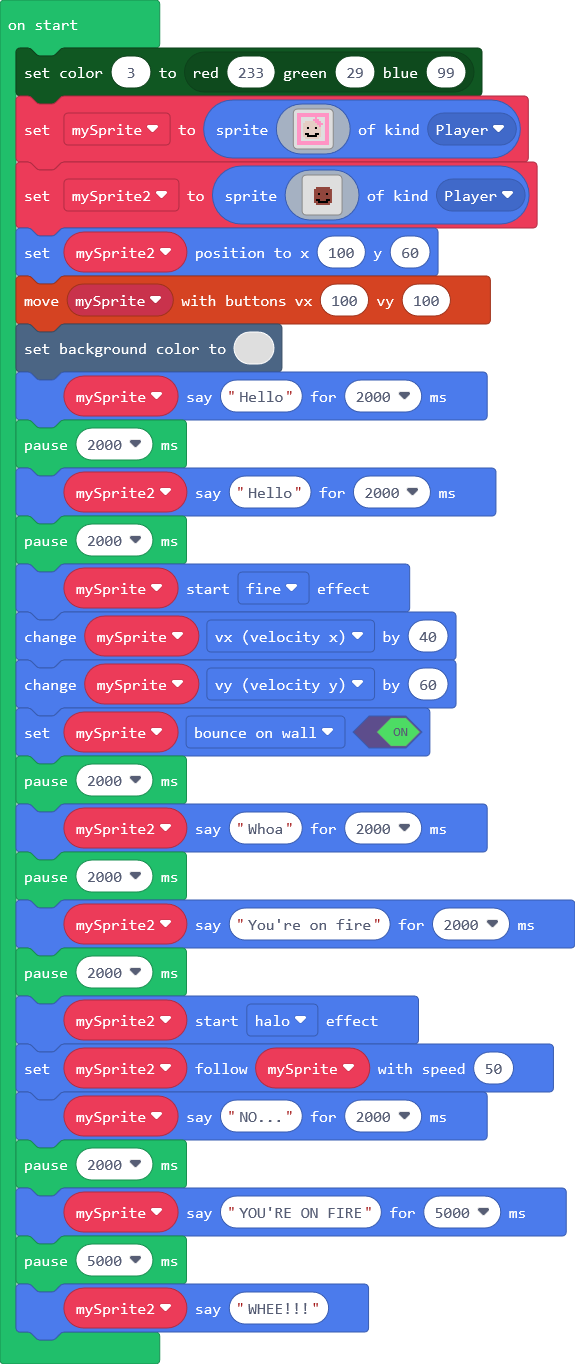
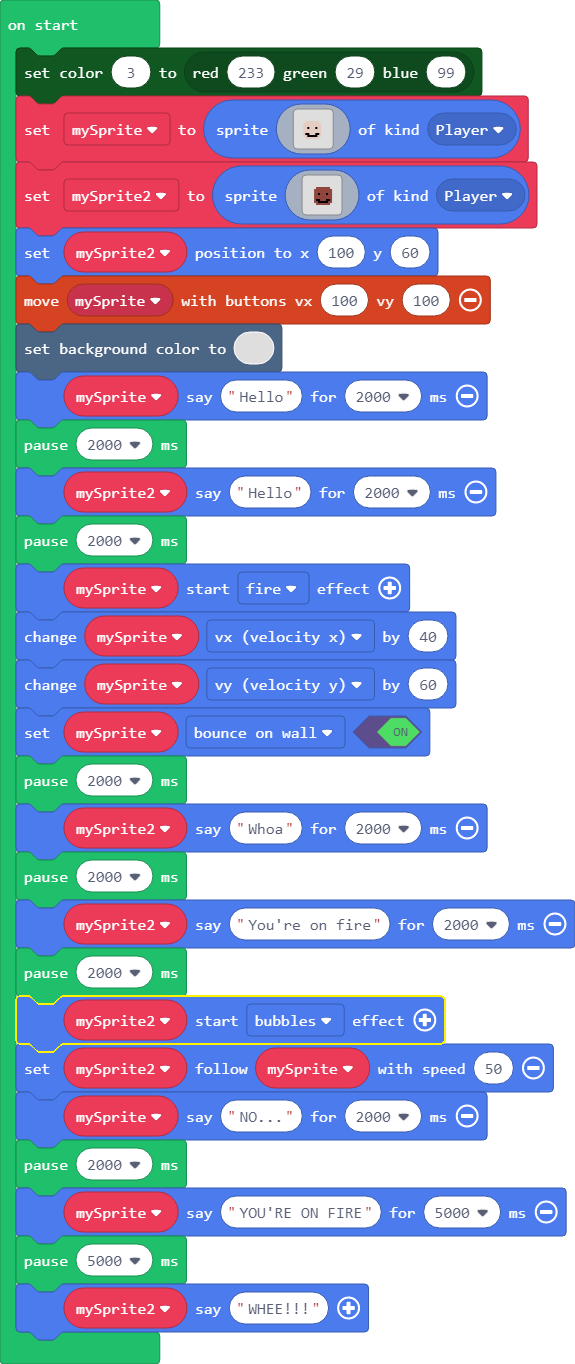
Update main.blocks, main.ts

diff --git a/main.ts b/main.ts
@@ -1,21 +1,21 @@
 color.setColor(3, color.rgb(233, 29, 99))
 let mySprite = sprites.create(img`
-3 3 3 3 3 3 3 3 3 3 3 3 3 3 3 3 
-3 3 3 3 3 3 3 3 3 3 3 3 3 3 3 3 
-3 3 . . . . . . . 3 . . . . 3 3 
-3 3 . . . . . . 3 3 3 . . . 3 3 
-3 3 . . d d d d d 3 3 3 . . 3 3 
-3 3 . d d d d d d d 3 3 3 . 3 3 
-3 3 . d d d d d d d d 3 . . 3 3 
-3 3 . d d f d d d f d d . . 3 3 
-3 3 . d d d d d d d d d . . 3 3 
-3 3 . d d d d d d d d d . . 3 3 
-3 3 . d f f d d d f f d . . 3 3 
-3 3 . d d f f f f f d d . . 3 3 
-3 3 . . d d d d d d d . . . 3 3 
-3 3 . . . . . . . . . . . . 3 3 
-3 3 3 3 3 3 3 3 3 3 3 3 3 3 3 3 
-3 3 3 3 3 3 3 3 3 3 3 3 3 3 3 3 
+. . . . . . . . . . . . . . . . 
+. . . . . . . . . . . . . . . . 
+. . . . . . . . . . . . . . . . 
+. . . . . . . . . . . . . . . . 
+. . . . d d d d d d d . . . . . 
+. . . d d d d d d d d d . . . . 
+. . . d d d d d d d d d . . . . 
+. . . d d f d d d f d d . . . . 
+. . . d d d d d d d d d . . . . 
+. . . d d d d d d d d d . . . . 
+. . . d f f d d d f f d . . . . 
+. . . d d f f f f f d d . . . . 
+. . . . d d d d d d d . . . . . 
+. . . . . . . . . . . . . . . . 
+. . . . . . . . . . . . . . . . 
+. . . . . . . . . . . . . . . . 
 `, SpriteKind.Player)
 let mySprite2 = sprites.create(img`
 . . . . . . . . . . . . . . . . 
@@ -51,7 +51,7 @@ mySprite2.say("Whoa", 2000)
 pause(2000)
 mySprite2.say("You're on fire", 2000)
 pause(2000)
-mySprite2.startEffect(effects.halo)
+mySprite2.startEffect(effects.bubbles)
 mySprite2.follow(mySprite, 50)
 mySprite.say("NO...", 2000)
 pause(2000)
